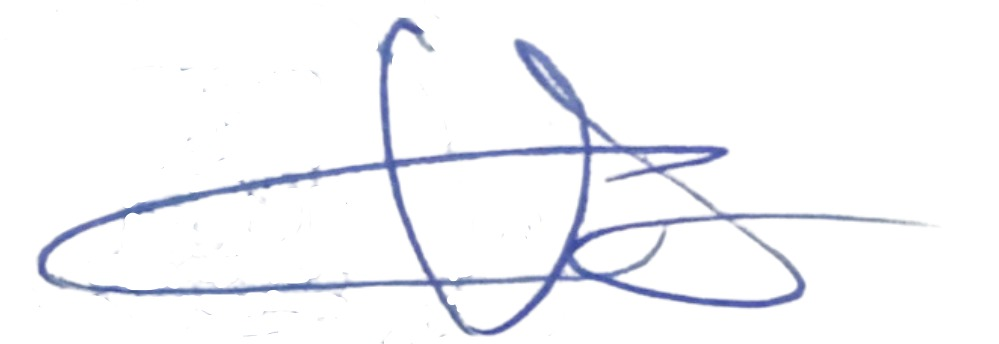
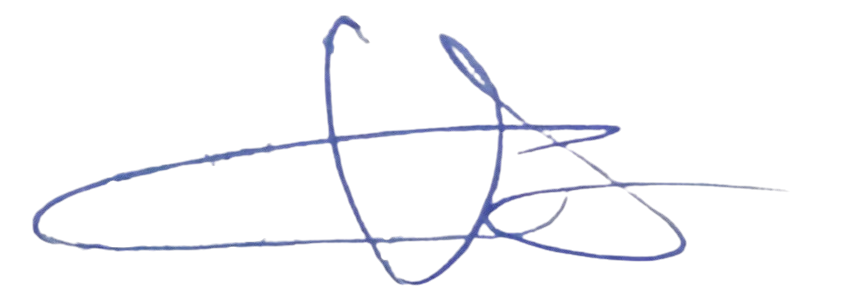
feat: add dynamic stamp overlay to PDF letter templates and update Lurah personnel information

diff --git a/app/Providers/AppServiceProvider.php b/app/Providers/AppServiceProvider.php
@@ -57,18 +57,36 @@ class AppServiceProvider extends ServiceProvider
                 }
             }
 
+            // Auto-detect cap/stempel surat
+            $capBase64 = '';
+            foreach ([
+                public_path('images/capsurat.png'),
+                storage_path('app/public/images/capsurat.png'),
+                base_path('public/images/capsurat.png'),
+                '/home/kure8737/public_html/images/capsurat.png',
+                '/home/kure8737/asetkelurahantanah-tinggi.my.id/public/images/capsurat.png',
+            ] as $p) {
+                if (file_exists($p)) {
+                    try {
+                        $capBase64 = 'data:' . mime_content_type($p) . ';base64,' . base64_encode(file_get_contents($p));
+                    } catch (\Exception $e) {}
+                    break;
+                }
+            }
+
             // Data Lurah — dari DB jika ada, fallback ke data resmi Tanah Tinggi
             $letter    = $view->getData()['letter'] ?? null;
             $lurahName = ($letter && $letter->lurah)
                 ? strtoupper($letter->lurah->name)
-                : 'DIDIN KOMARUDIN, S.Sos,M.Si';
+                : 'DEWI RATNA WATI, S.Sos';
             $lurahNip  = ($letter && $letter->lurah && $letter->lurah->nip)
                 ? $letter->lurah->nip
-                : '196711102001121003';
+                : '198603252011012001';
 
             $view->with([
                 'logoBase64' => $logoBase64,
                 'sigBase64'  => $sigBase64,
+                'capBase64'  => $capBase64,
                 'lurahName'  => $lurahName,
                 'lurahNip'   => $lurahNip,
             ]);

diff --git a/resources/views/pdf/letters_report.blade.php b/resources/views/pdf/letters_report.blade.php
@@ -59,13 +59,18 @@
                 <p style="margin: 0 0 5px 0;">Tanah Tinggi, {{ date('d F Y') }}</p>
                 <p style="margin: 0 0 5px 0;">Mengetahui,</p>
                 <p style="margin: 0 0 10px 0;"><strong>Lurah Tanah Tinggi</strong></p>
-                @if($sigBase64)
-                    <img src="{{ $sigBase64 }}" alt="TTD Lurah" style="width: 130px; height: auto; display: block; margin: 5px auto;">
-                @else
-                    <br><br><br><br>
-                @endif
-                <p style="margin: 5px 0 0 0;"><strong><u>DIDIN KOMARUDIN, S.Sos, M.Si</u></strong></p>
-                <p style="margin: 0; font-size: 11px; color: #555;">NIP. 196711102001121003</p>
+                <div style="position: relative; display: inline-block; min-height: 110px; width: 200px; text-align: center; margin-top: 5px;">
+                    @if($sigBase64)
+                        <img src="{{ $sigBase64 }}" alt="TTD Lurah" style="width: 140px; height: auto; display: inline-block; position: relative; z-index: 2; margin-top: 20px; margin-bottom: 0; margin-left: 0; margin-right: 0;">
+                    @else
+                        <br><br><br><br>
+                    @endif
+                    @if($capBase64)
+                        <img src="{{ $capBase64 }}" alt="Cap Surat" style="width: 110px; height: auto; position: absolute; left: 10px; top: -5px; opacity: 0.85; z-index: 1;">
+                    @endif
+                </div>
+                <p style="margin: 5px 0 0 0;"><strong><u>{{ $lurahName ?? 'DEWI RATNA WATI, S.Sos' }}</u></strong></p>
+                <p style="margin: 0; font-size: 11px; color: #555;">NIP. {{ $lurahNip ?? '198603252011012001' }}</p>
             </td>
         </tr>
     </table>

diff --git a/resources/views/pdf/formulir-permohonan-ktp.blade.php b/resources/views/pdf/formulir-permohonan-ktp.blade.php
@@ -55,11 +55,16 @@
             <td style="width: 50%;"></td>
             <td style="width: 50%; text-align: center; vertical-align: top;">
                 <p style="margin-bottom: 2px;">Lurah Kelurahan Tanah Tinggi</p>
-                @if($sigBase64)
-                    <img src="{{ $sigBase64 }}" alt="TTD Lurah" style="width: 160px; height: auto; display: block; margin: 5px auto;">
-                @else
-                    <br><br><br><br>
-                @endif
+                <div class="signature-inner">
+                    @if($sigBase64)
+                        <img src="{{ $sigBase64 }}" alt="TTD Lurah" class="signature-img">
+                    @else
+                        <br><br><br><br>
+                    @endif
+                    @if($capBase64)
+                        <img src="{{ $capBase64 }}" alt="Cap Surat" class="cap-img">
+                    @endif
+                </div>
                 <p style="font-weight: bold; text-decoration: underline; margin: 0;">{{ $lurahName }}</p>
                 <p style="margin: 0; font-size: 10.5pt;">NIP.{{ $lurahNip }}</p>
             </td>

diff --git a/resources/views/pdf/generic.blade.php b/resources/views/pdf/generic.blade.php
@@ -86,11 +86,16 @@
             <td style="width: 50%;"></td>
             <td style="width: 50%; text-align: center; vertical-align: top;">
                 <p style="margin-bottom: 2px;">Lurah Kelurahan Tanah Tinggi</p>
-                @if($sigBase64)
-                    <img src="{{ $sigBase64 }}" alt="TTD Lurah" style="width: 160px; height: auto; display: block; margin: 5px auto;">
-                @else
-                    <br><br><br><br>
-                @endif
+                <div class="signature-inner">
+                    @if($sigBase64)
+                        <img src="{{ $sigBase64 }}" alt="TTD Lurah" class="signature-img">
+                    @else
+                        <br><br><br><br>
+                    @endif
+                    @if($capBase64)
+                        <img src="{{ $capBase64 }}" alt="Cap Surat" class="cap-img">
+                    @endif
+                </div>
                 <p style="font-weight: bold; text-decoration: underline; margin: 0;">{{ $lurahName }}</p>
                 <p style="margin: 0; font-size: 10.5pt;">NIP.{{ $lurahNip }}</p>
             </td>

diff --git a/database/seeders/UsersSeeder.php b/database/seeders/UsersSeeder.php
@@ -20,11 +20,11 @@ class UsersSeeder extends Seeder
 
         // Lurah
         $lurah = User::create([
-            'name' => 'DIDIN KHOMARUDIN, S.Sos, M.Si',
-            'email' => '[email redacted]',
+            'name'     => 'DEWI RATNA WATI, S.Sos',
+            'email'    => '[email redacted]',
             'password' => Hash::make('password'),
-            'phone' => '[phone redacted]',
-            'address' => 'Kelurahan Tanah Tinggi, Kecamatan Tangerang',
+            'phone'    => '[phone redacted]',
+            'address'  => 'Kelurahan Tanah Tinggi, Kecamatan Tangerang',
         ]);
         $lurah->assignRole('lurah');
 

diff --git a/resources/views/pdf/partials/letter-header.blade.php b/resources/views/pdf/partials/letter-header.blade.php
@@ -2,8 +2,8 @@
     ======================================================
     TEMPLATE MASTER SURAT — KELURAHAN TANAH TINGGI
     Kecamatan Tangerang, Kota Tangerang, Banten 15119
-    Lurah : DIDIN KOMARUDIN, S.Sos,M.Si
-    NIP   : 196711102001121003
+    Lurah : DEWI RATNA WATI, S.Sos
+    NIP   : 198603252011012001
     ======================================================
     @include('pdf.partials.letter-header')
     Variabel dari parent: $letter (wajib), $sifat, $lampiran, $hal (opsional)
@@ -114,7 +114,9 @@
     .signature-wrap { margin-top: 15px; width: 100%; page-break-inside: avoid; }
     .signature-box { float: right; width: 230px; text-align: center; }
     .signature-box p { margin: 2px 0; line-height: 1.4; }
-    .signature-img { width: 160px; height: auto; display: block; margin: 5px auto; }
+    .signature-inner { position: relative; display: inline-block; min-height: 110px; width: 200px; text-align: center; margin-top: 5px; }
+    .signature-img { width: 150px; height: auto; display: inline-block; position: relative; z-index: 2; margin-top: 20px; margin-bottom: 0; margin-left: 0; margin-right: 0; }
+    .cap-img { width: 110px; height: auto; position: absolute; left: 10px; top: -5px; opacity: 0.85; z-index: 1; }
     .signature-name { text-decoration: underline; font-weight: bold; margin: 0; display: block; }
     .signature-nip { font-weight: normal; margin: 1px 0 0 0; font-size: 10.5pt; display: block; }
     .signature-table { width: 100%; border-collapse: collapse; }

diff --git a/resources/views/public/profile/struktur.blade.php b/resources/views/public/profile/struktur.blade.php
@@ -44,8 +44,8 @@
                 <div class="flex flex-col items-center relative z-10 w-full">
                     <div class="bg-white border border-gray-800 p-3 w-[300px] text-center relative z-20">
                         <div class="text-[13px] text-gray-800 mb-1 uppercase">Lurah</div>
-                        <div class="text-[13px] text-gray-800 underline mb-1 uppercase">DIDIN KHOMARUDIN, S.Sos.M.Si</div>
-                        <div class="text-[13px] text-gray-800">NIP: 196711102001121003</div>
+                        <div class="text-[13px] text-gray-800 underline mb-1 uppercase">DEWI RATNA WATI, S.Sos</div>
+                        <div class="text-[13px] text-gray-800">NIP: 198603252011012001</div>
                     </div>
                     <!-- Vertical line down -->
                     <div class="h-16 w-px bg-gray-800 relative z-0"></div>
@@ -98,7 +98,7 @@
                             <div class="bg-white border border-gray-800 p-3 w-[280px] text-center relative z-20">
                                 <div class="text-[13px] text-gray-800 mb-1 uppercase">Kepala Seksi Tata<br>Pemerintahan</div>
                                 <div class="text-[13px] text-gray-800 underline mb-1 uppercase">IDA FARIDA,SE, M.Si</div>
-                                <div class="text-[13px] text-gray-800">NIP: 1969099262009012001</div>
+                                <div class="text-[13px] text-gray-800">NIP: 196909926200901200<b>1</b></div>
                             </div>
                             <!-- Vertical line down to Staff -->
                             <div class="h-8 w-px bg-gray-800 relative z-0"></div>

diff --git a/resources/views/pdf/skck.blade.php b/resources/views/pdf/skck.blade.php
@@ -59,7 +59,10 @@
             <td class="signature-cell-left"></td>
             <td class="signature-cell-right">
                 <p>Lurah Kelurahan Tanah Tinggi</p>
-                @if($sigBase64)<img src="{{ $sigBase64 }}" alt="TTD Lurah" class="signature-img">@else<br><br><br>@endif
+                <div class="signature-inner">
+                    @if($sigBase64)<img src="{{ $sigBase64 }}" alt="TTD Lurah" class="signature-img">@else<br><br><br>@endif
+                    @if($capBase64)<img src="{{ $capBase64 }}" alt="Cap Surat" class="cap-img">@endif
+                </div>
                 <span class="signature-name">{{ $lurahName }}</span>
                 <span class="signature-nip">NIP.{{ $lurahNip }}</span>
             </td>

diff --git a/resources/views/pdf/surat-kematian.blade.php b/resources/views/pdf/surat-kematian.blade.php
@@ -61,7 +61,10 @@
             <td class="signature-cell-left"></td>
             <td class="signature-cell-right">
                 <p>Lurah Kelurahan Tanah Tinggi</p>
-                @if($sigBase64)<img src="{{ $sigBase64 }}" alt="TTD Lurah" class="signature-img">@else<br><br><br>@endif
+                <div class="signature-inner">
+                    @if($sigBase64)<img src="{{ $sigBase64 }}" alt="TTD Lurah" class="signature-img">@else<br><br><br>@endif
+                    @if($capBase64)<img src="{{ $capBase64 }}" alt="Cap Surat" class="cap-img">@endif
+                </div>
                 <span class="signature-name">{{ $lurahName }}</span>
                 <span class="signature-nip">NIP.{{ $lurahNip }}</span>
             </td>

diff --git a/resources/views/pdf/surat-keterangan-domisili.blade.php b/resources/views/pdf/surat-keterangan-domisili.blade.php
@@ -114,7 +114,10 @@
             <td class="signature-cell-left"></td>
             <td class="signature-cell-right">
                 <p>Lurah Kelurahan Tanah Tinggi</p>
-                @if($sigBase64)<img src="{{ $sigBase64 }}" alt="TTD Lurah" class="signature-img">@else<br><br><br>@endif
+                <div class="signature-inner">
+                    @if($sigBase64)<img src="{{ $sigBase64 }}" alt="TTD Lurah" class="signature-img">@else<br><br><br>@endif
+                    @if($capBase64)<img src="{{ $capBase64 }}" alt="Cap Surat" class="cap-img">@endif
+                </div>
                 <span class="signature-name">{{ $lurahName }}</span>
                 <span class="signature-nip">NIP.{{ $lurahNip }}</span>
             </td>

diff --git a/resources/views/pdf/surat-keterangan-ijin-cuti.blade.php b/resources/views/pdf/surat-keterangan-ijin-cuti.blade.php
@@ -61,7 +61,10 @@
             <td class="signature-cell-left"></td>
             <td class="signature-cell-right">
                 <p>Lurah Kelurahan Tanah Tinggi</p>
-                @if($sigBase64)<img src="{{ $sigBase64 }}" alt="TTD Lurah" class="signature-img">@else<br><br><br>@endif
+                <div class="signature-inner">
+                    @if($sigBase64)<img src="{{ $sigBase64 }}" alt="TTD Lurah" class="signature-img">@else<br><br><br>@endif
+                    @if($capBase64)<img src="{{ $capBase64 }}" alt="Cap Surat" class="cap-img">@endif
+                </div>
                 <span class="signature-name">{{ $lurahName }}</span>
                 <span class="signature-nip">NIP.{{ $lurahNip }}</span>
             </td>

diff --git a/resources/views/pdf/surat-keterangan-ijin-keramaian.blade.php b/resources/views/pdf/surat-keterangan-ijin-keramaian.blade.php
@@ -56,7 +56,10 @@
     <div class="signature-wrap">
         <div class="signature-box">
             <p>Lurah Kelurahan Tanah Tinggi</p>
-            @if($sigBase64)<img src="{{ $sigBase64 }}" alt="TTD Lurah" class="signature-img">@else<br><br><br>@endif
+            <div class="signature-inner">
+                    @if($sigBase64)<img src="{{ $sigBase64 }}" alt="TTD Lurah" class="signature-img">@else<br><br><br>@endif
+                    @if($capBase64)<img src="{{ $capBase64 }}" alt="Cap Surat" class="cap-img">@endif
+                </div>
             <p class="signature-name">{{ $lurahName }}</p>
             <p class="signature-nip">NIP.{{ $lurahNip }}</p>
         </div>